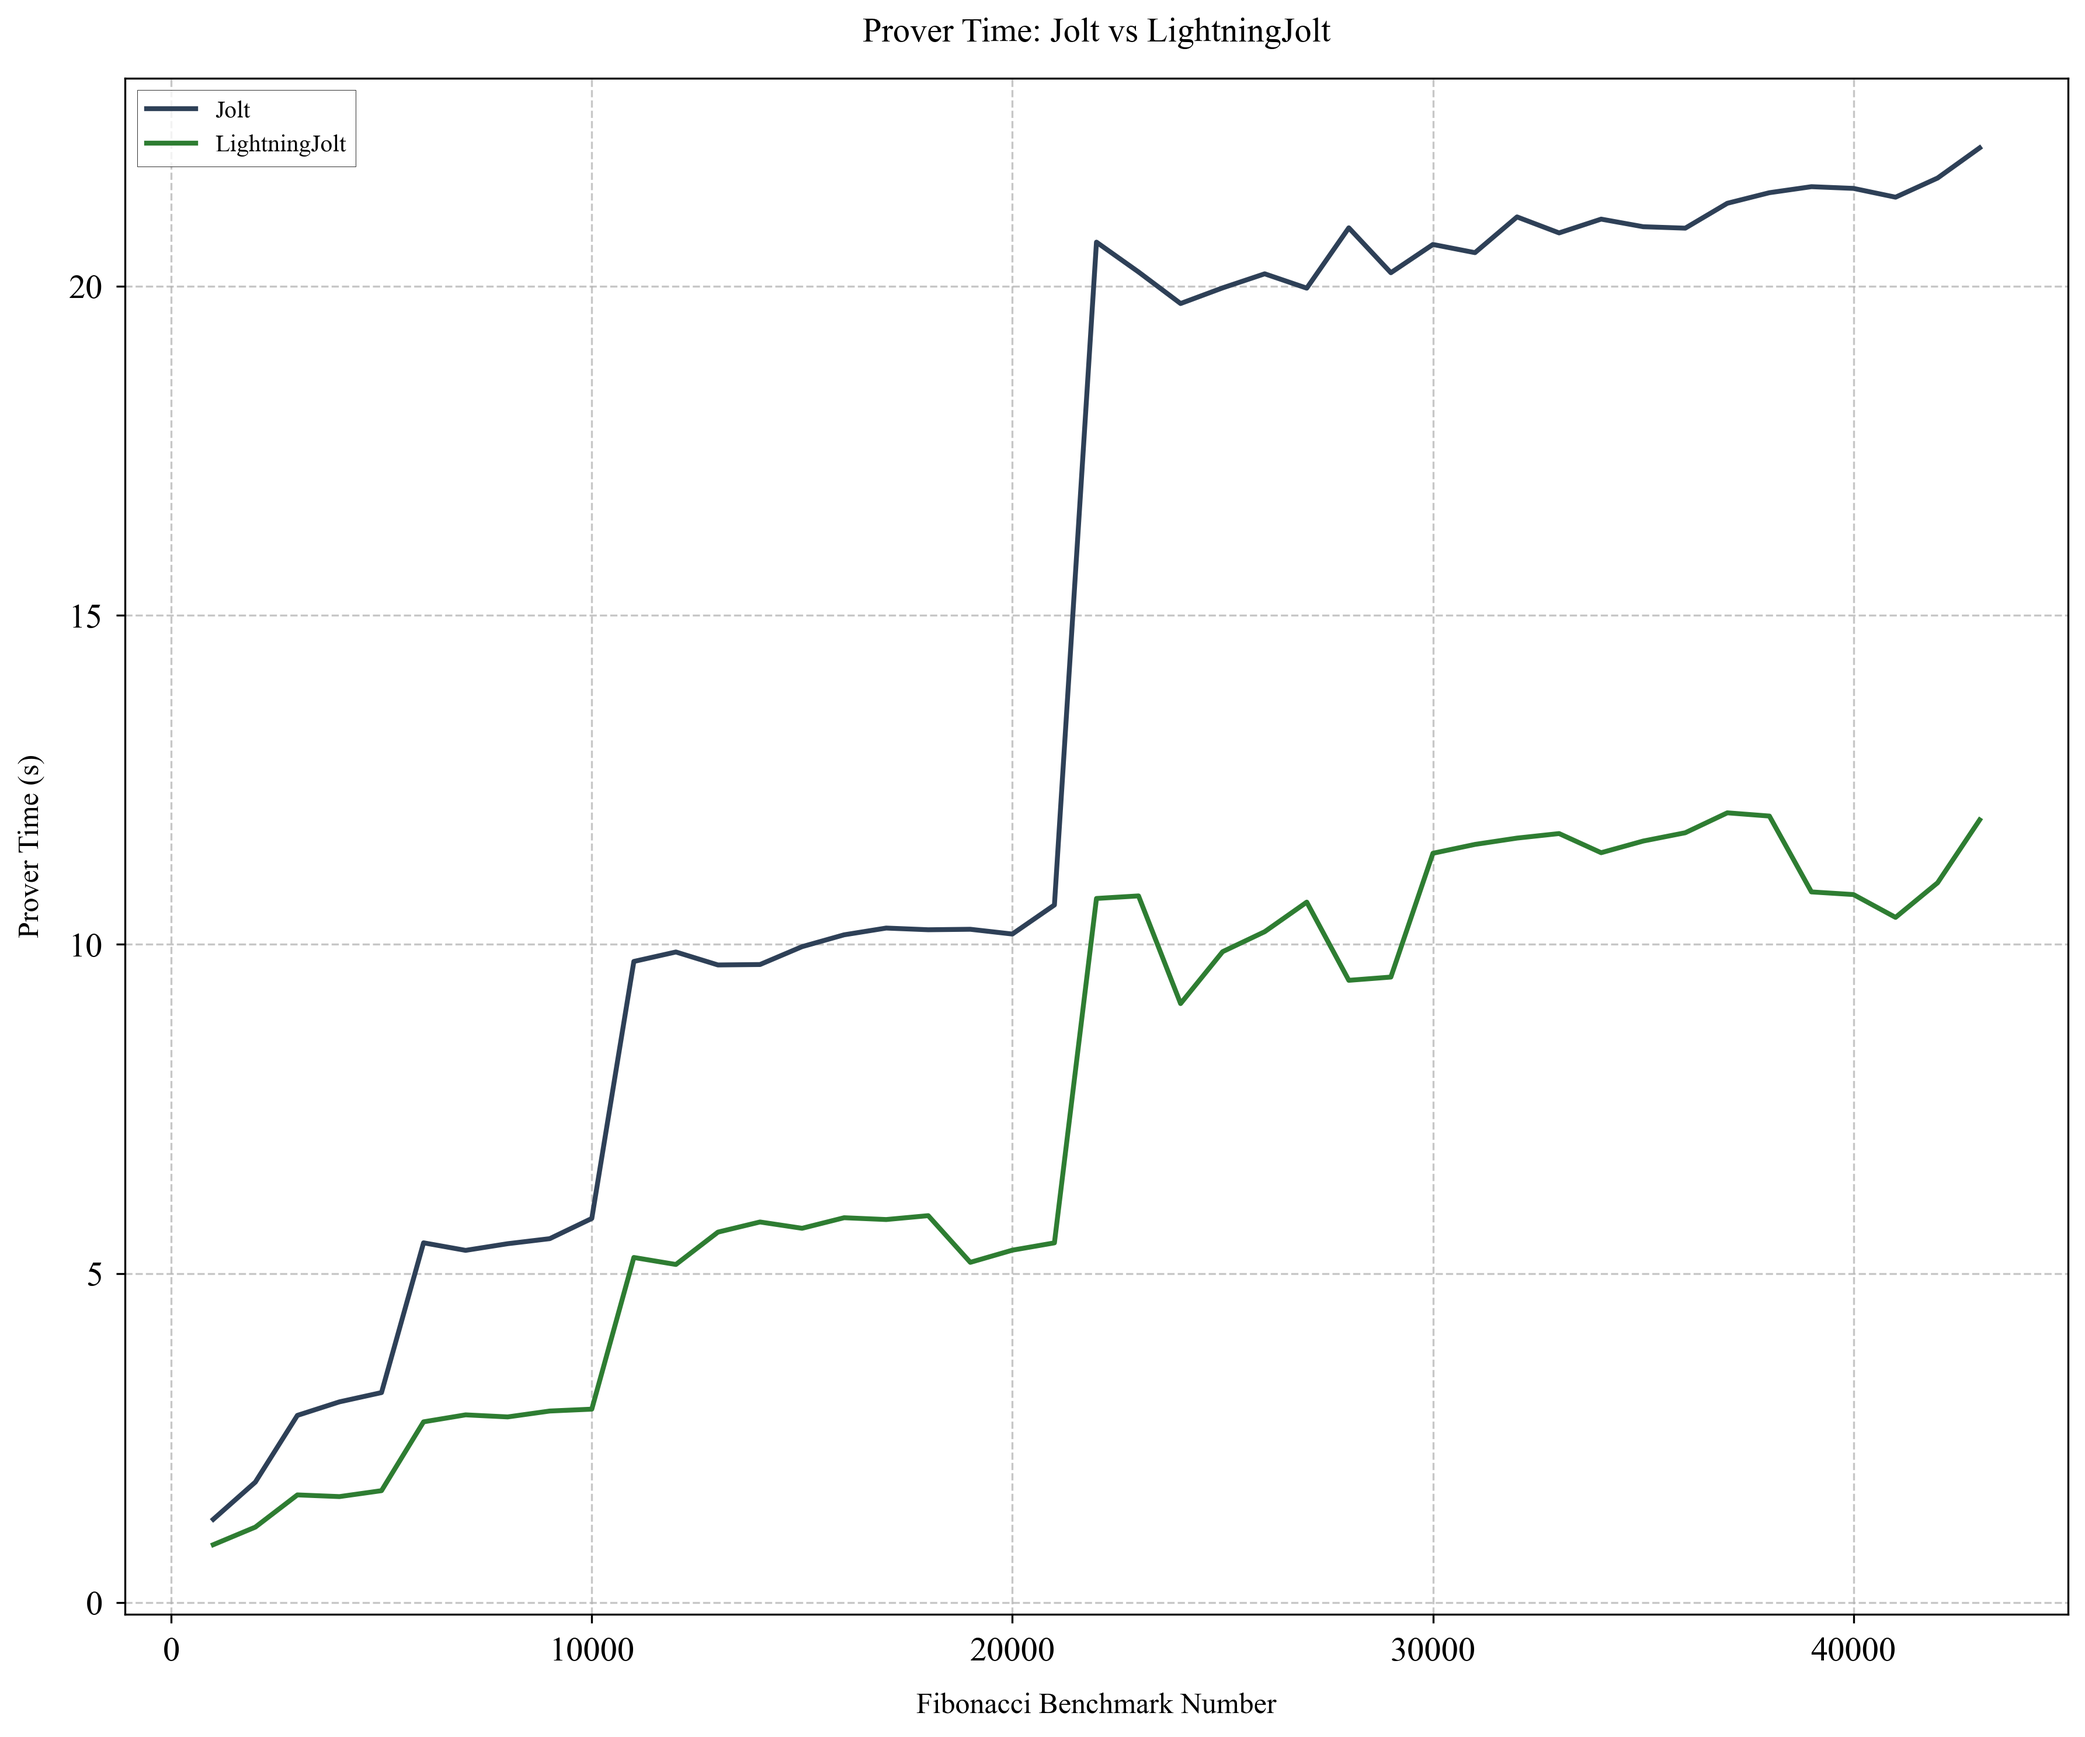
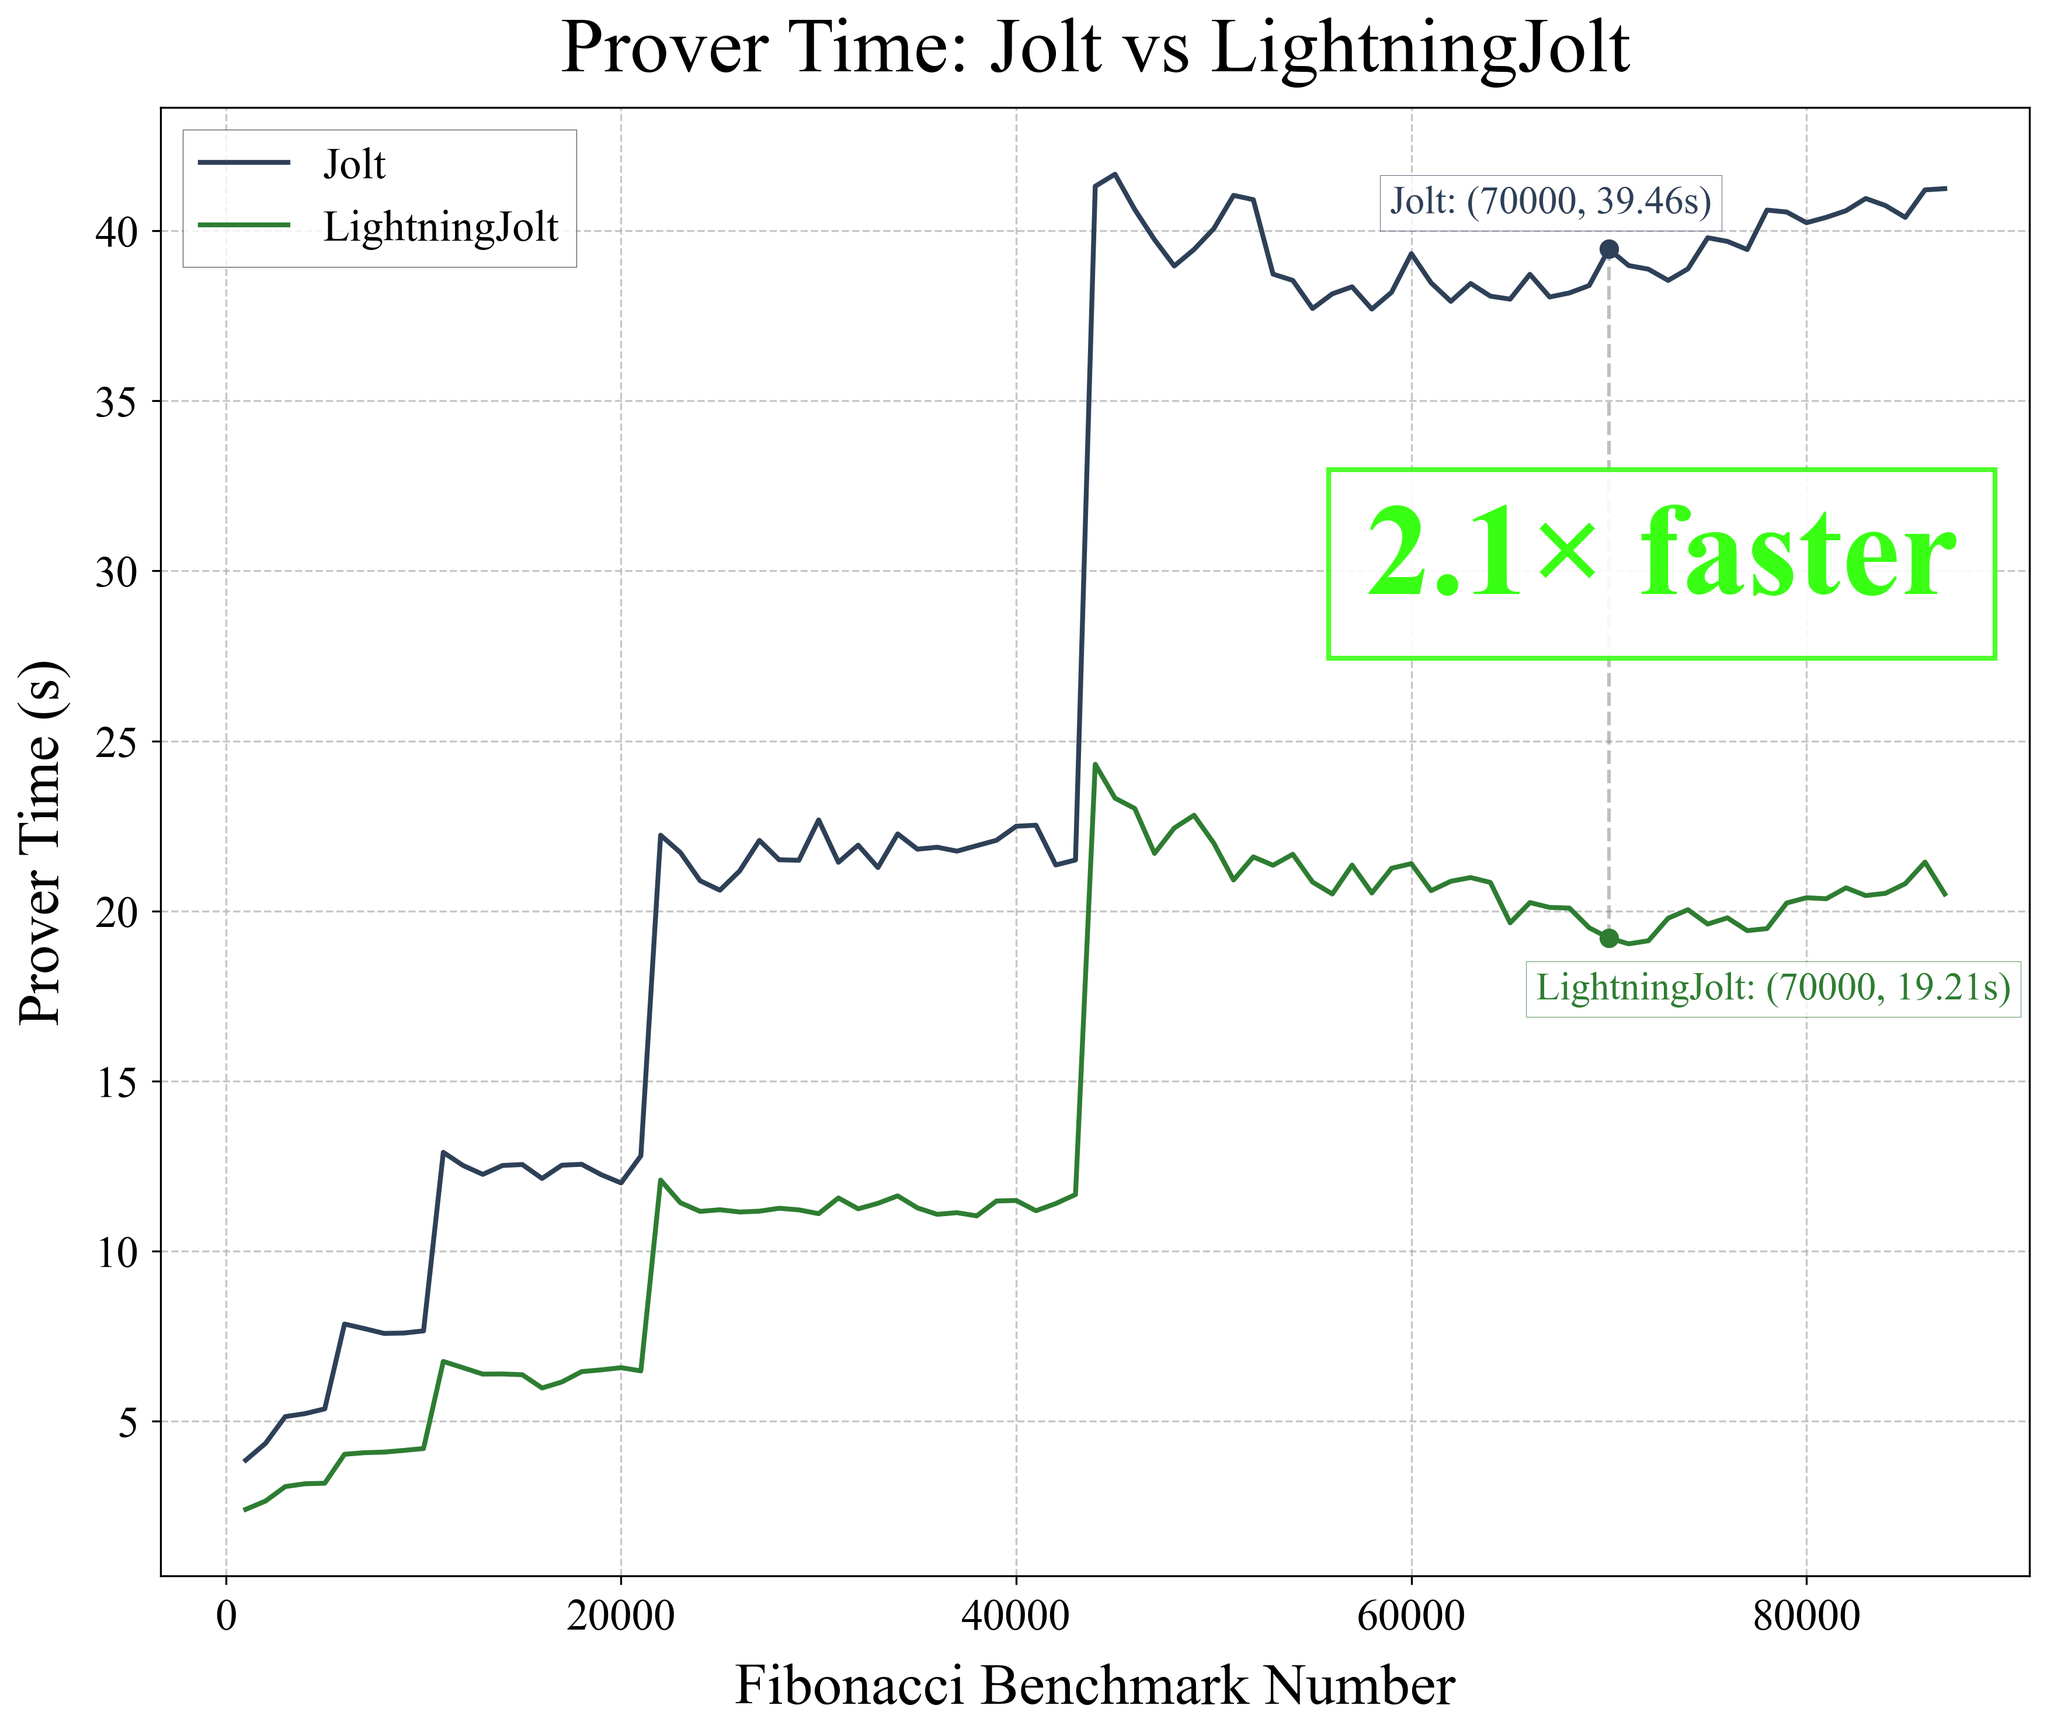
graphs donegit add .

diff --git a/python-plotter/generate_all_graphs.py b/python-plotter/generate_all_graphs.py
@@ -7,14 +7,15 @@ import glob
 plt.style.use('seaborn-v0_8-paper')
 mpl.rcParams['font.family'] = 'serif'
 mpl.rcParams['font.serif'] = ['Times New Roman']
-mpl.rcParams['axes.labelsize'] = 16
-mpl.rcParams['axes.titlesize'] = 16
-mpl.rcParams['xtick.labelsize'] = 14
-mpl.rcParams['ytick.labelsize'] = 14
+mpl.rcParams['axes.labelsize'] = 24
+mpl.rcParams['axes.titlesize'] = 32
+mpl.rcParams['xtick.labelsize'] = 18
+mpl.rcParams['ytick.labelsize'] = 18
+mpl.rcParams['legend.fontsize'] = 18
 
 # Get the directory where this script is located
 script_dir = os.path.dirname(os.path.abspath(__file__))
-graphs_dir = os.path.join(script_dir, 'graphs')
+graphs_dir = os.path.join(script_dir, 'graphs-round-two')
 
 # Ensure graphs directory exists
 os.makedirs(graphs_dir, exist_ok=True)
@@ -54,7 +55,7 @@ for omc_file in omc_files:
     elif prefix == 'verify':
         fig, ax = plt.subplots(figsize=(6, 5))
         omc_x = [point[0] for point in omc_data]
-        omc_y = [point[1] * 65/50 for point in omc_data]
+        omc_y = [point[1] * 1000 for point in omc_data]
         r1cs_x = [point[0] for point in r1cs_data] 
         r1cs_y = [point[1] * 1000 for point in r1cs_data]
     elif prefix == 'size':
@@ -67,7 +68,6 @@ for omc_file in omc_files:
     ax.plot(omc_x, omc_y, color='#2E4057', linewidth=2, label='Jolt')
     ax.plot(r1cs_x, r1cs_y, color='#2E7D32', linewidth=2, label='LightningJolt')
 
-
     # Set title based on the prefix
     title_map = {
         'prove': 'Prover Time',
@@ -76,18 +76,18 @@ for omc_file in omc_files:
     }
     title = title_map.get(prefix, prefix.capitalize())
     
-    ax.set_xlabel('Fibonacci Benchmark Number', fontsize=12, labelpad=10)
+    ax.set_xlabel('Fibonacci Benchmark Number', fontsize=24, labelpad=10)
     
     # Set y-axis label based on the benchmark type
     if prefix == 'size':
-        ax.set_ylabel('Proof Size (kb)', fontsize=12, labelpad=10)
+        ax.set_ylabel('Proof Size (kb)', fontsize=24, labelpad=10)
     elif prefix == 'prove':
-        ax.set_ylabel('Prover Time (s)', fontsize=12, labelpad=10)
+        ax.set_ylabel('Prover Time (s)', fontsize=24, labelpad=10)
     elif prefix == 'verify':
-        ax.set_ylabel('Verifier Time (ms)', fontsize=12, labelpad=10)
+        ax.set_ylabel('Verifier Time (ms)', fontsize=24, labelpad=10)
         
-    ax.set_title(f'{title}: Jolt vs LightningJolt', fontsize=14, pad=15)
-    ax.legend(frameon=True, fancybox=False, edgecolor='black', fontsize=10)
+    ax.set_title(f'{title}', fontsize=32, pad=15)
+    ax.legend(frameon=True, fancybox=False, edgecolor='black', fontsize=18)
     ax.grid(True, linestyle='--', alpha=0.7)
 
     # Adjust layout

diff --git a/python-plotter/mat-plot.py b/python-plotter/mat-plot.py
@@ -6,10 +6,11 @@ import matplotlib as mpl
 plt.style.use('seaborn-v0_8-paper')
 mpl.rcParams['font.family'] = 'serif'
 mpl.rcParams['font.serif'] = ['Times New Roman']
-mpl.rcParams['axes.labelsize'] = 16
-mpl.rcParams['axes.titlesize'] = 16
-mpl.rcParams['xtick.labelsize'] = 14
-mpl.rcParams['ytick.labelsize'] = 14
+mpl.rcParams['axes.labelsize'] = 24
+mpl.rcParams['axes.titlesize'] = 32
+mpl.rcParams['xtick.labelsize'] = 18
+mpl.rcParams['ytick.labelsize'] = 18
+mpl.rcParams['legend.fontsize'] = 18
 
 # Get the directory where this script is located
 script_dir = os.path.dirname(os.path.abspath(__file__))
@@ -50,12 +51,12 @@ ax.plot(omc_x[omc_idx], omc_y[omc_idx], 'o', color='#2E4057', markersize=8)
 ax.plot(r1cs_x[r1cs_idx], r1cs_y[r1cs_idx], 'o', color='#2E7D32', markersize=8)
 
 # Add point labels with improved formatting
-ax.annotate(f'Jolt: ({target_x}, {omc_y[omc_idx]:.2f}s)', 
+ax.annotate(f'Jolt: (70k, {omc_y[omc_idx]:.2f}s)', 
             xy=(omc_x[omc_idx], omc_y[omc_idx]),
             xytext=(-90, 15), textcoords='offset points',
             fontsize=16, color='#2E4057',
             bbox=dict(facecolor='white', edgecolor='#2E4057', alpha=0.8))
-ax.annotate(f'LightningJolt: ({target_x}, {r1cs_y[r1cs_idx]:.2f}s)', 
+ax.annotate(f'LightningJolt: (70k, {r1cs_y[r1cs_idx]:.2f}s)', 
             xy=(r1cs_x[r1cs_idx], r1cs_y[r1cs_idx]),
             xytext=(-30, -25), textcoords='offset points',
             fontsize=16, color='#2E7D32',
@@ -75,17 +76,17 @@ ax.annotate(f'{speedup:.1f}× faster',
                       pad=15),
             fontweight='bold')
 
-ax.set_xlabel('Fibonacci Benchmark Number', fontsize=12, labelpad=10)
-ax.set_ylabel('Prover Time (s)', fontsize=12, labelpad=10)
-ax.set_title('Prover Time: Jolt vs LightningJolt', fontsize=14, pad=15)
-ax.legend(frameon=True, fancybox=False, edgecolor='black', fontsize=10)
+ax.set_xlabel('Fibonacci Benchmark Number', fontsize=24, labelpad=10)
+ax.set_ylabel('Prover Time (s)', fontsize=24, labelpad=10)
+ax.set_title('Prover Time: Jolt vs LightningJolt', fontsize=32, pad=15)
+ax.legend(frameon=True, fancybox=False, edgecolor='black', fontsize=18)
 ax.grid(True, linestyle='--', alpha=0.7)
 
 # Adjust layout
 plt.tight_layout()
 
 # Save the plot with high DPI for publication quality
-output_file = os.path.join(graphs_dir, 'prove_hyperkzg_comparison.png')
+output_file = 'prove_hyperkzg_comparison.png'
 plt.savefig(output_file, dpi=300, bbox_inches='tight')
 plt.close()
 
